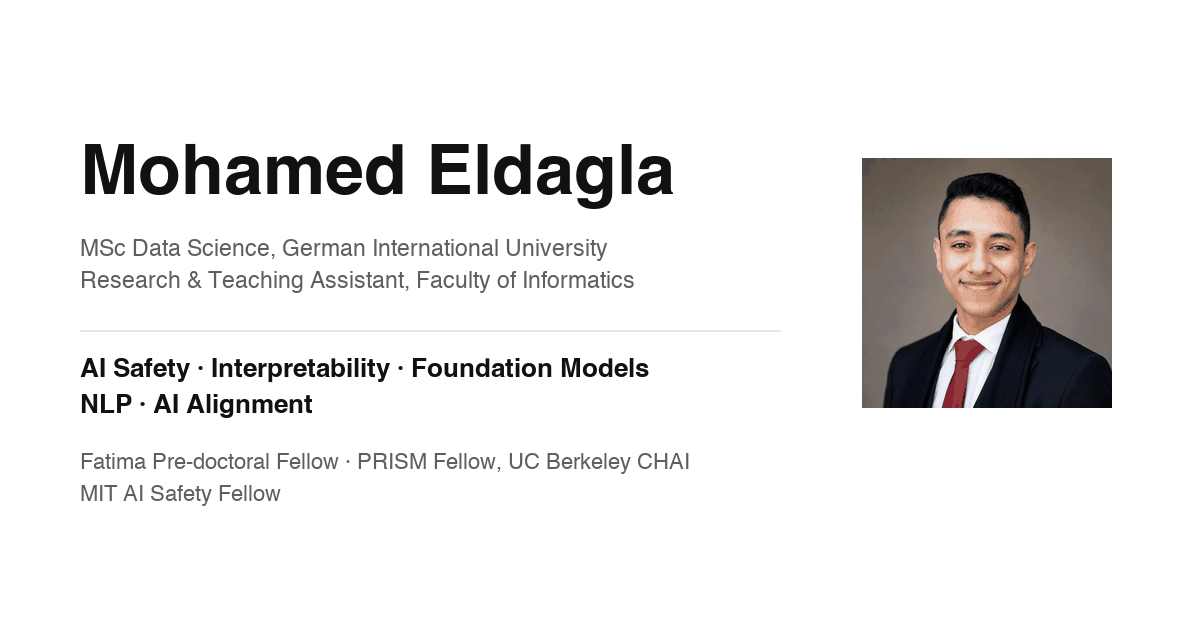
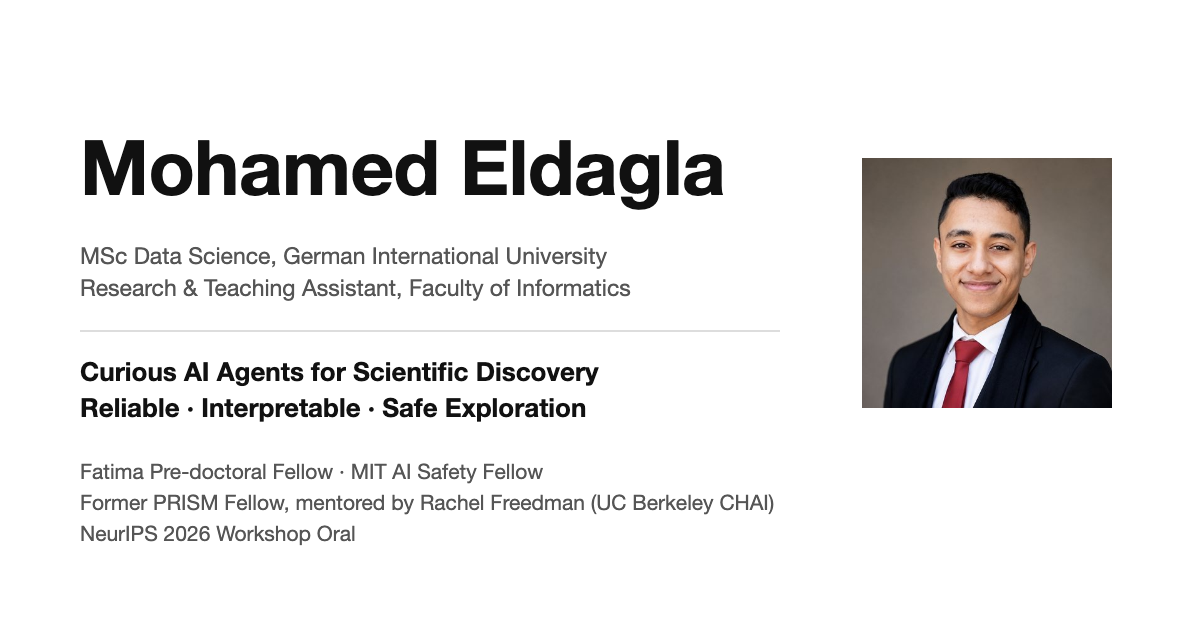
Site cleanup and new social preview card
- Add MIT AI Alignment and Misr El Kheir awards; sort awards newest first
- Mark NeurIPS oral talk as upcoming
- Fix bio wording, awards subtitle, NTA spelling, README blog note
- Refresh sitemap dates
- New og-image matching the updated research focus

diff --git a/render.js b/render.js
@@ -397,7 +397,9 @@
     return h('li', { class: 'entry' },
       entryHead(t.title, t.date),
       entryLinks(t.links, t.title),
-      h('p', { class: 'entry-desc' }, t.venueUrl ? externalLink(t.venueUrl, t.venue) : t.venue)
+      h('p', { class: 'entry-desc' },
+        t.venueUrl ? externalLink(t.venueUrl, t.venue) : t.venue,
+        t.upcoming ? [sep(), h('span', { class: 'status is-preparation' }, 'Upcoming')] : null)
     );
   }
 

diff --git a/index.html b/index.html
@@ -124,7 +124,7 @@
   </p>
 
   <p>
-    Formally, an MSc candidate in Data Science at the
+    I am also an MSc candidate in Data Science at the
     <a href="https://giu-uni.de/" rel="noopener">German International University in Cairo</a> (GIU),
     where
     I am also a research and teaching assistant in the Faculty of Informatics, and where I am

diff --git a/awards/index.html b/awards/index.html
@@ -53,7 +53,7 @@
 
 <header class="pagehead wrap">
   <h1>Honors &amp; Awards</h1>
-  <p class="position">Awards and recognition. Research fellowships are on the <a href="../cv/">CV</a>.</p>
+  <p class="position">Awards and recognition.</p>
 </header>
 
 <main id="main" class="wrap">

diff --git a/README.md b/README.md
@@ -238,8 +238,9 @@ theme on every load.
 1. **ORCID.** If you register one, add it to the `sameAs` array in the JSON-LD block in
    `index.html`. That array is what tells indexers your Scholar, GitHub, and LinkedIn profiles are
    the same person.
-2. **Blog.** `blog/index.html` has one placeholder title ("Prerequisites Are All You Need", marked
-   *Coming soon*). Replace it with the real post when it exists — a nav item leading to a page of
+2. **Blog.** `blog/index.html` has two placeholder titles ("Do People Really Want Different
+   Things? Reward Basis Decomposition" and "Prerequisites Are All You Need", both marked
+   *Coming soon*). Replace them with the real posts when they exist — a nav item leading to a page of
    nothing but placeholders reads as abandoned.
 
 ## Deploying
